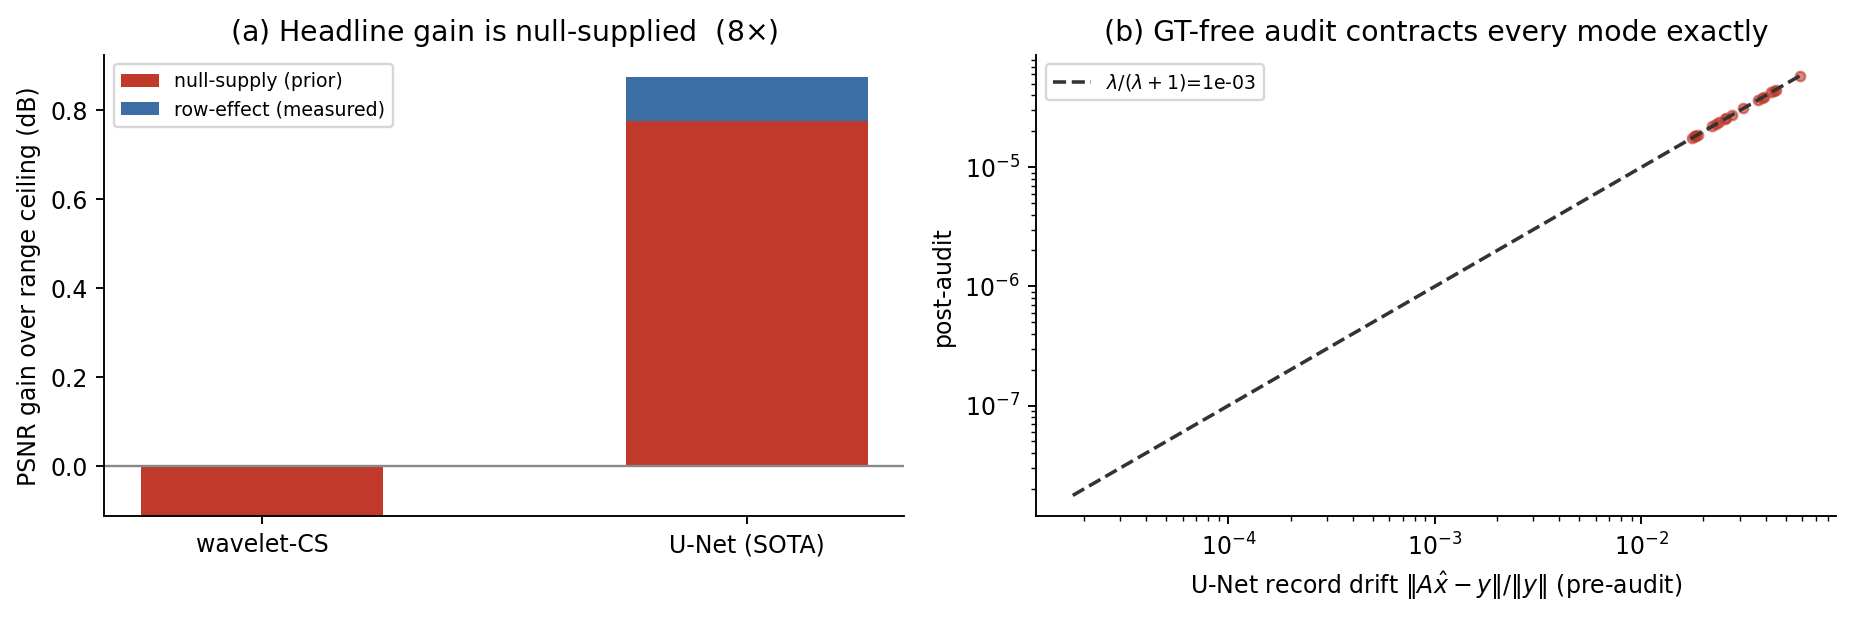
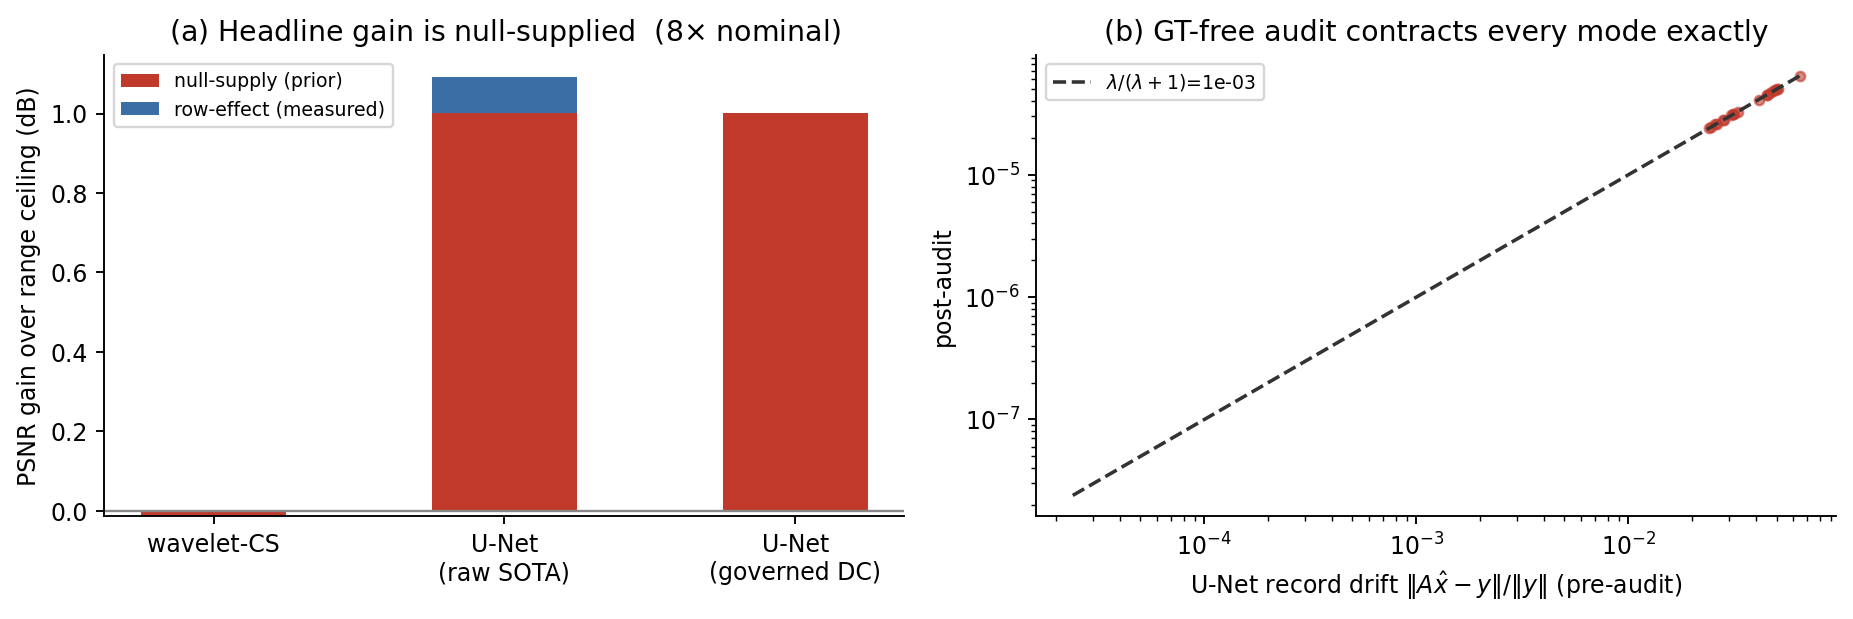
fastmri_twoledger: fix stale forensics_8x artifacts (prose-vs-JSON mismatch)
A venue-review pass caught that forensics_8x.json / FORENSICS_MRI_8x.* on disk were
the earlier EQUISPACED run (eff 7.8x: ceiling 23.92, +0.88, 89% null), while RESULTS.md
quoted the random-mask run (24.32, +1.09, 92%). Root cause: output files were named by
round(1/effective_sampling), so the random R=8 mask (eff 6.9x) wrote forensics_7x.json,
which was then deleted as "stale", leaving the equispaced forensics_8x.json in place.

Fix: name outputs by the NOMINAL fastMRI acceleration (R=4/8, standard fastMRI naming),
report both nominal and effective sampling in the JSON and RESULTS table, and regenerate.
Now forensics_4x.json (26.70/29.68/91%) and forensics_8x.json (24.32/25.42/92%) match
RESULTS.md exactly; figures regenerated from the random-mask (in-distribution) run.

diff --git a/fastmri_twoledger/run_forensics.py b/fastmri_twoledger/run_forensics.py
@@ -96,7 +96,7 @@ def main(accel=4, cf=0.08, n_vol=30, seed=0, mask_type="random"):
 
     def stats(a): a = np.array(a); return float(np.mean(a)), float(np.std(a))
     ceil_m, ceil_s = stats(rec["ceiling"])
-    summary = {"accel": 1 / op.sampling_rate, "sampling_rate": op.sampling_rate,
+    summary = {"accel_nominal": accel, "accel_effective": 1 / op.sampling_rate, "sampling_rate": op.sampling_rate,
                "n_vol": len(pick), "lambda": lam,
                "range_ceiling_psnr": [ceil_m, ceil_s]}
     log("\n===== FORENSICS SUMMARY =====")
@@ -125,7 +125,7 @@ def main(accel=4, cf=0.08, n_vol=30, seed=0, mask_type="random"):
         f"(ratio {np.median(audit['ratio']):.2e}, target {lam/(lam+1):.2e}, "
         f"max dev {np.max(audit['contra_dev']):.1e})")
 
-    json.dump(summary, open(os.path.join(OUT, f"forensics_{int(round(1/op.sampling_rate))}x.json"), "w"), indent=2)
+    json.dump(summary, open(os.path.join(OUT, f"forensics_{accel}x.json"), "w"), indent=2)
 
     # figure: (a) PSNR bars vs ceiling with null/row split ; (b) U-Net record-drift contraction
     fig, ax = plt.subplots(1, 2, figsize=(11, 3.8))
@@ -138,7 +138,7 @@ def main(accel=4, cf=0.08, n_vol=30, seed=0, mask_type="random"):
     ax[0].bar(xpos, rows_, 0.5, bottom=nulls, color="#3a6ea5", label="row-effect (measured)")
     ax[0].set_xticks(xpos); ax[0].set_xticklabels(["wavelet-CS", "U-Net\n(raw SOTA)", "U-Net\n(governed DC)"])
     ax[0].set_ylabel("PSNR gain over range ceiling (dB)")
-    ax[0].set_title(f"(a) Headline gain is null-supplied  ({1/op.sampling_rate:.0f}$\\times$)")
+    ax[0].set_title(f"(a) Headline gain is null-supplied  ({accel}$\\times$ nominal)")
     ax[0].legend(fontsize=8)
     for sp in ("top", "right"): ax[0].spines[sp].set_visible(False)
 
@@ -154,7 +154,7 @@ def main(accel=4, cf=0.08, n_vol=30, seed=0, mask_type="random"):
     for sp in ("top", "right"): ax[1].spines[sp].set_visible(False)
     fig.tight_layout()
     for ext in ("png", "pdf"):
-        fig.savefig(os.path.join(OUT, f"FORENSICS_MRI_{int(round(1/op.sampling_rate))}x.{ext}"), dpi=170, bbox_inches="tight")
+        fig.savefig(os.path.join(OUT, f"FORENSICS_MRI_{accel}x.{ext}"), dpi=170, bbox_inches="tight")
     log("wrote forensics json + FORENSICS_MRI figure")
 
 

diff --git a/fastmri_twoledger/RESULTS.md b/fastmri_twoledger/RESULTS.md
@@ -37,10 +37,13 @@ not a complex-vector-space artifact. → `WITNESS_MRI_8x.*`, `witness_certificat
 `P_R x_gt` exactly, so its magnitude PSNR is the *range ceiling*. Decomposing the official
 single-coil U-Net's gain over that ceiling:
 
-| accel | range ceiling | U-Net (raw) | gain | **null share** | U-Net record drift |
+(accel is the nominal fastMRI R used to generate the random mask; effective sampling is
+higher because of the ACS block — R=4→3.7×, R=8→6.9× effective. Numbers match `forensics_Rx.json`.)
+
+| accel (nominal) | range ceiling | U-Net (raw) | gain | **null share** | U-Net record drift |
 |---|---|---|---|---|---|
-| 4× | 26.70 dB | 29.68 dB | +2.98 dB | **91 %** | 5.9 % |
-| 8× | 24.32 dB | 25.42 dB | +1.09 dB | **92 %** | 3.3 % |
+| 4× (eff 3.7×) | 26.70 dB | 29.68 dB | +2.98 dB | **91 %** | 5.9 % |
+| 8× (eff 6.9×) | 24.32 dB | 25.42 dB | +1.09 dB | **92 %** | 3.3 % |
 
 91–92 % of the "SOTA" PSNR gain is prior-invented null content the k-space never certified
 — extending the paper's 39–95 % ghost-imaging finding to real clinical MRI. The raw U-Net